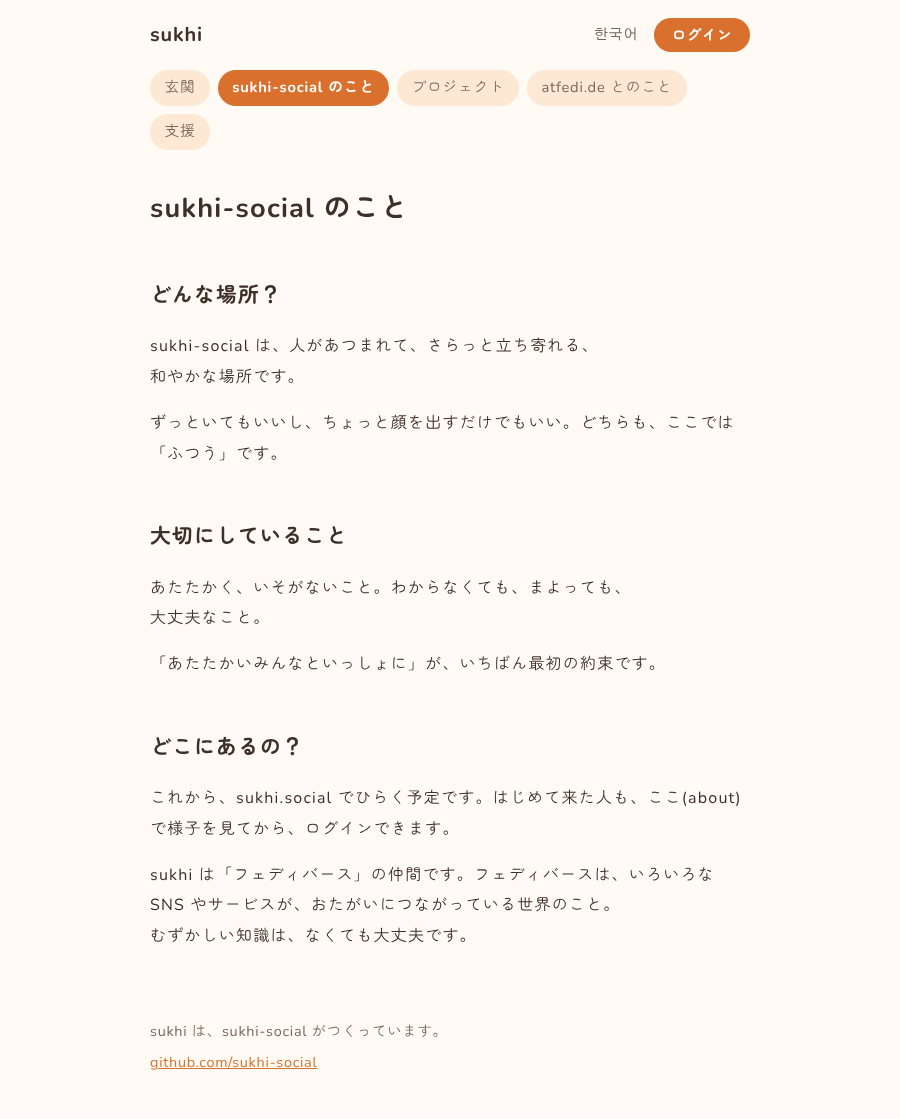
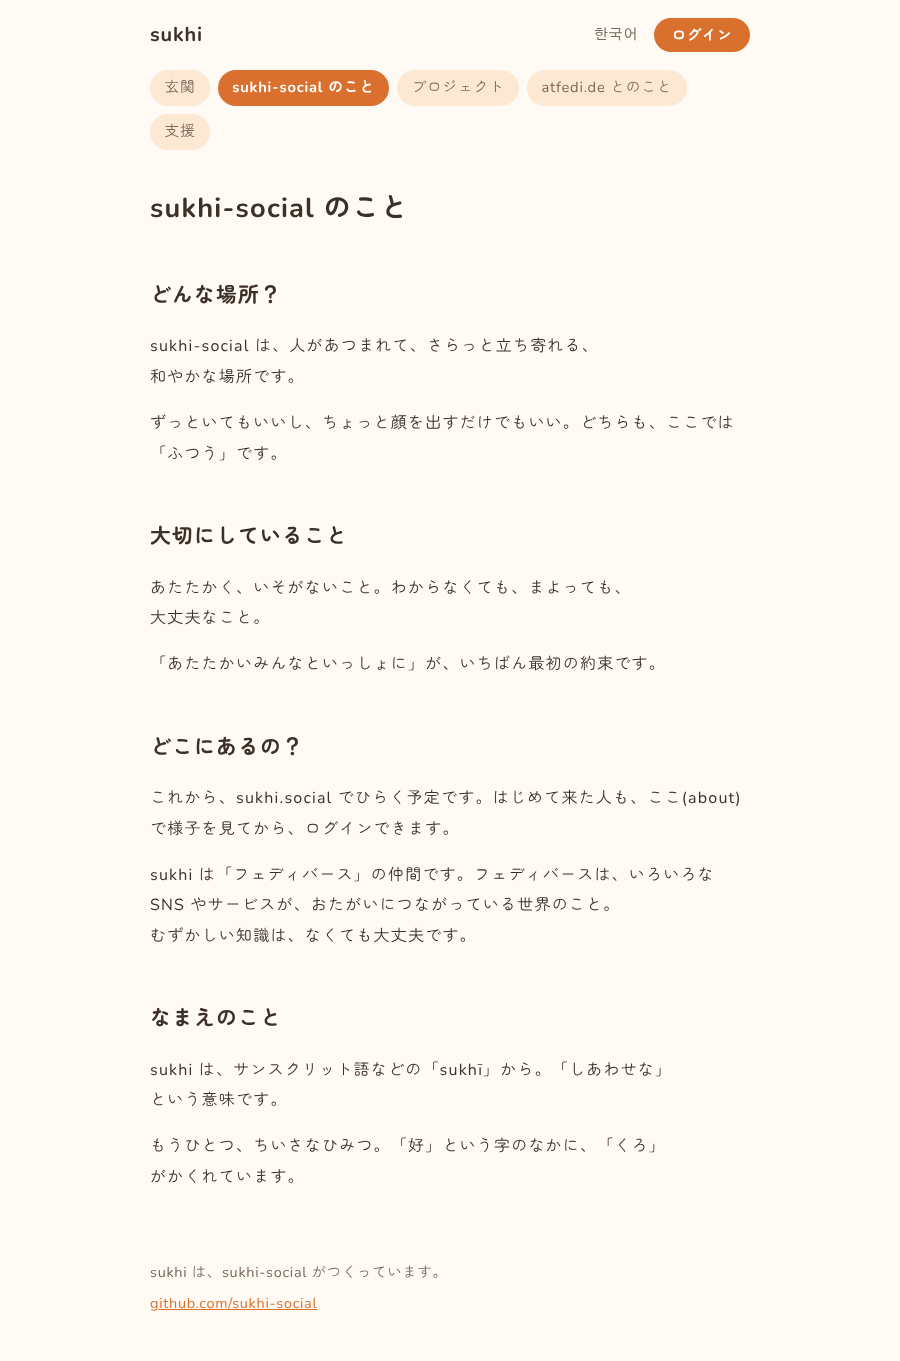
place: a small note on the name (sukhī = happy) and the hidden kuro in 好
Claude-Session: https://claude.ai/code/session_01EUxHZau6UP3xLAsGqKBsmf

diff --git a/src/content.ts b/src/content.ts
@@ -141,6 +141,13 @@ export const copy: Record<Locale, Copy> = {
             'これから、sukhi.social でひらく予定です。はじめて来た人も、ここ(about)で様子を見てから、ログインできます。',
             'sukhi は「フェディバース」の仲間です。フェディバースは、いろいろな SNS やサービスが、おたがいにつながっている世界のこと。むずかしい知識は、なくても大丈夫です。'
           ]
+        },
+        {
+          heading: 'なまえのこと',
+          text: [
+            'sukhi は、サンスクリット語などの「sukhī」から。「しあわせな」という意味です。',
+            'もうひとつ、ちいさなひみつ。「好」という字のなかに、「くろ」がかくれています。'
+          ]
         }
       ]
     },
@@ -253,6 +260,13 @@ export const copy: Record<Locale, Copy> = {
           text: [
             '앞으로 sukhi.social에서 열 예정이에요. 처음 온 분도 여기(about)에서 분위기를 보고 나서 로그인할 수 있어요.',
             'sukhi는 ‘페디버스’의 친구예요. 페디버스는 여러 SNS와 서비스가 서로 이어져 있는 세계를 말해요. 어려운 지식이 없어도 괜찮아요.'
+          ]
+        },
+        {
+          heading: '이름 이야기',
+          text: [
+            'sukhi는 산스크리트어 등의 ‘sukhī’에서 왔어요. ‘행복한’이라는 뜻이에요.',
+            '작은 비밀이 하나 더 있어요. ‘好’라는 한자 안에 ‘くろ(쿠로)’가 숨어 있어요.'
           ]
         }
       ]
